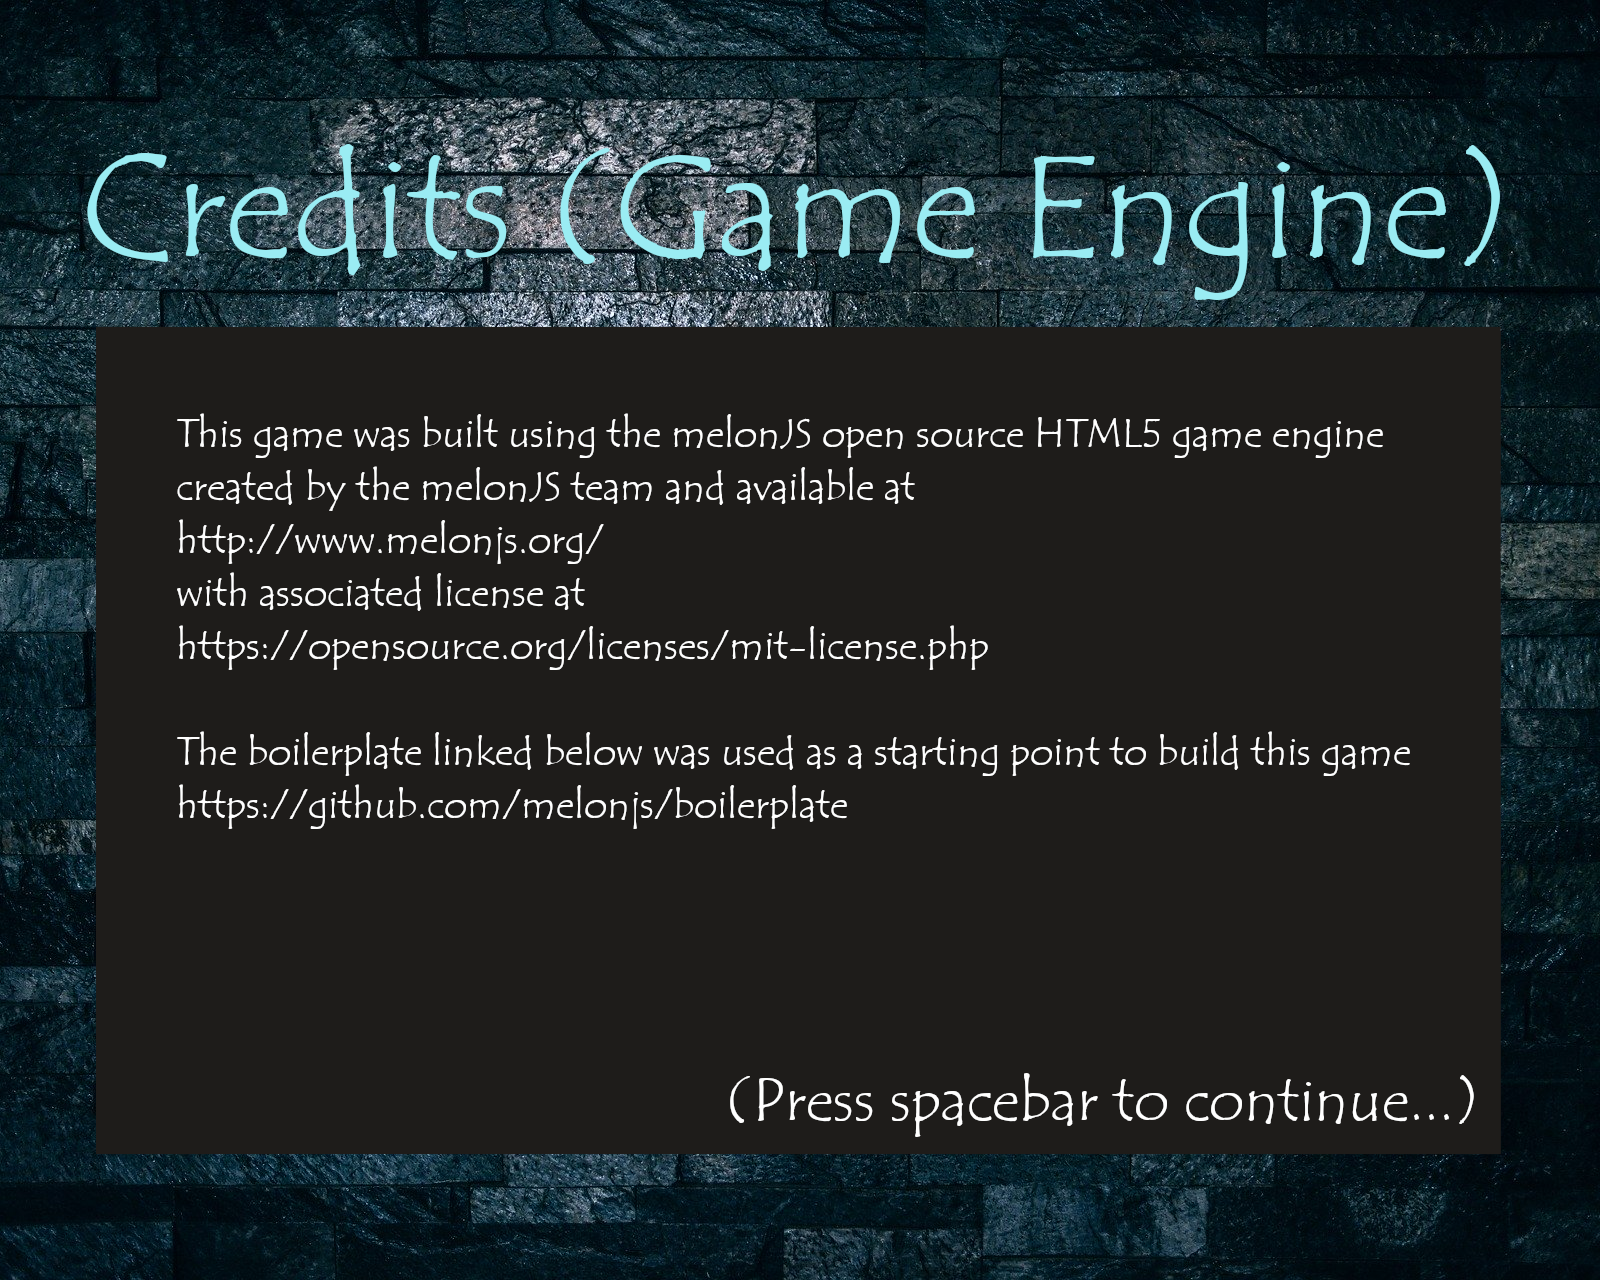
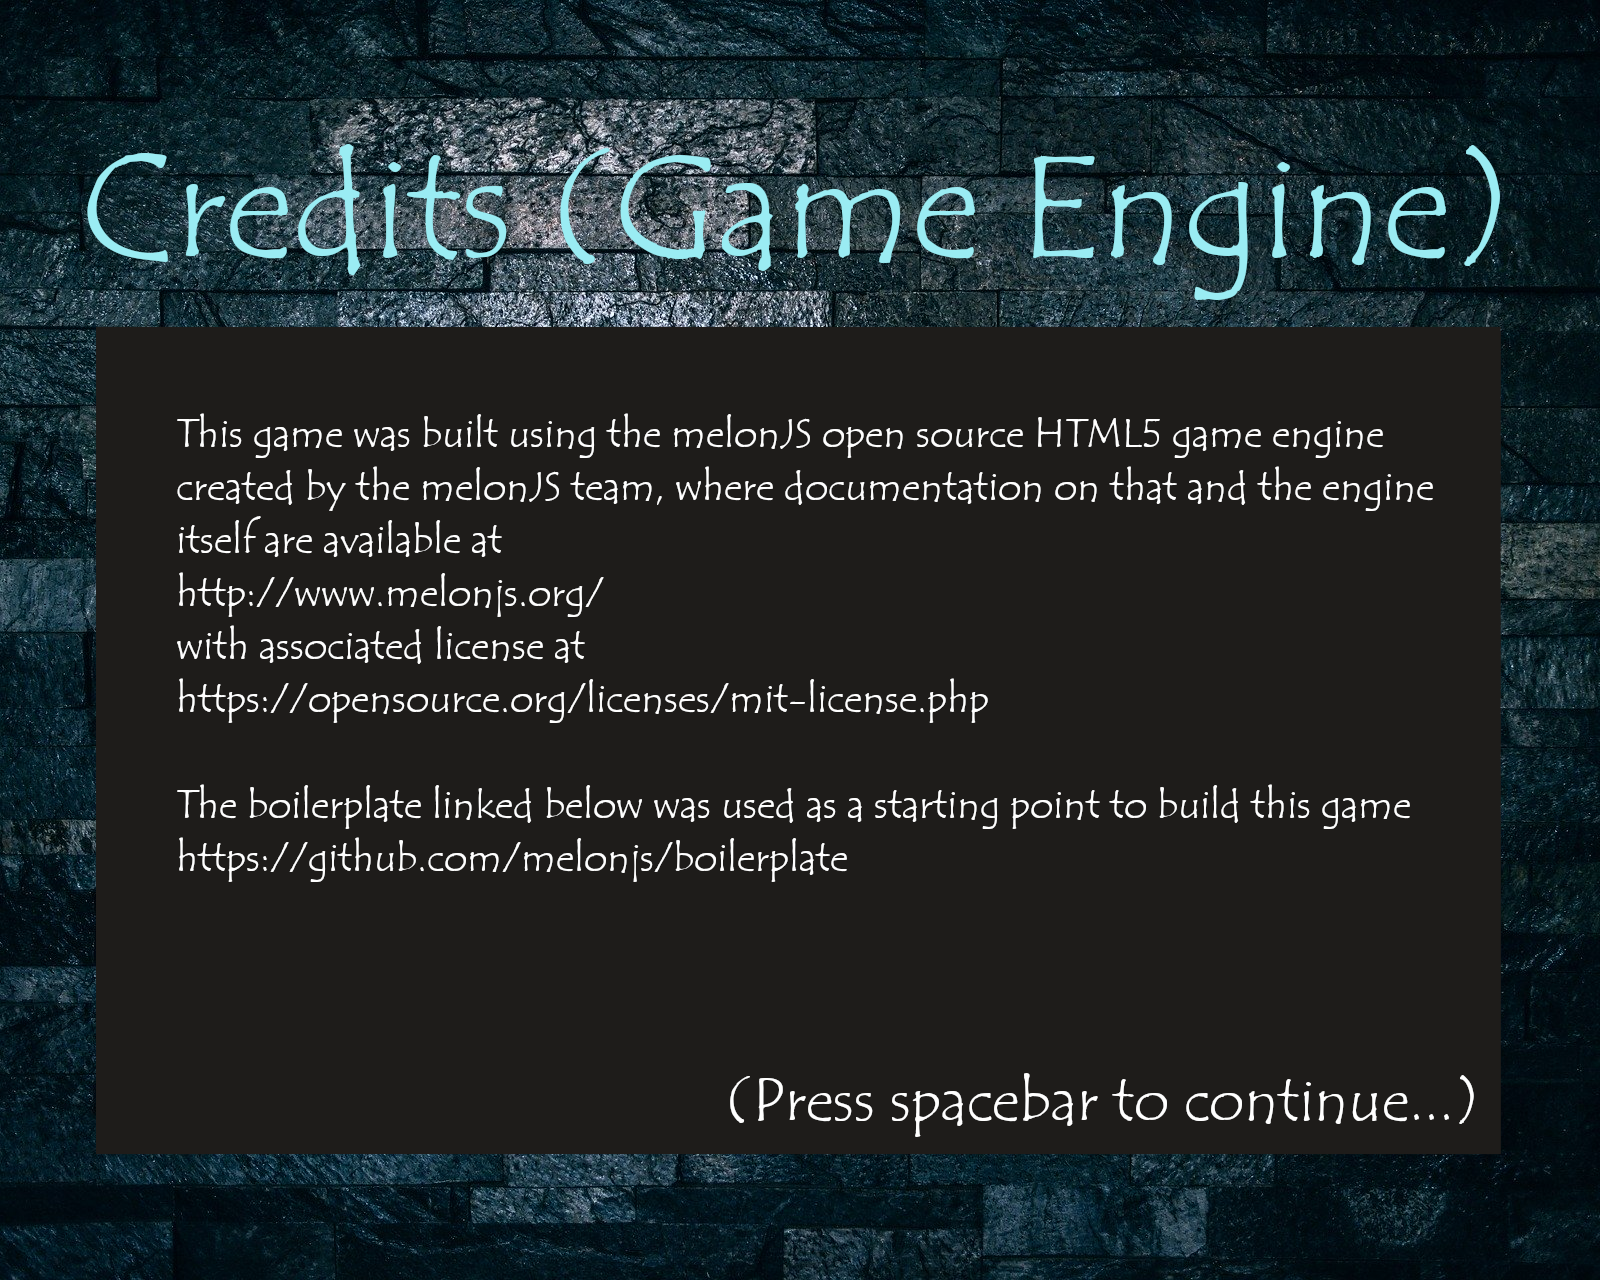
Update citations14 image and add an additional credits screen
Update citations14 image and add an additional credits screen (citations15). Adjust ordering for subsequent images as needed and update credits screen count.

Changed region(s): [[0.0938, 0.4062, 0.875, 0.6875], [0.4062, 0.375, 0.9062, 0.4062]]

diff --git a/js/screens/citations.js b/js/screens/citations.js
@@ -12,7 +12,7 @@ game.CitationsScreen = me.Stage.extend({
 	// Set necessary variables to track which screen is being shown
 	var screenNum = 1;
 	var rewinds = 0;
-	var lastScreen = 16;
+	var lastScreen = 17;
 	
 	// Play a looping music track.
 	me.audio.play("happy_adveture", true);
